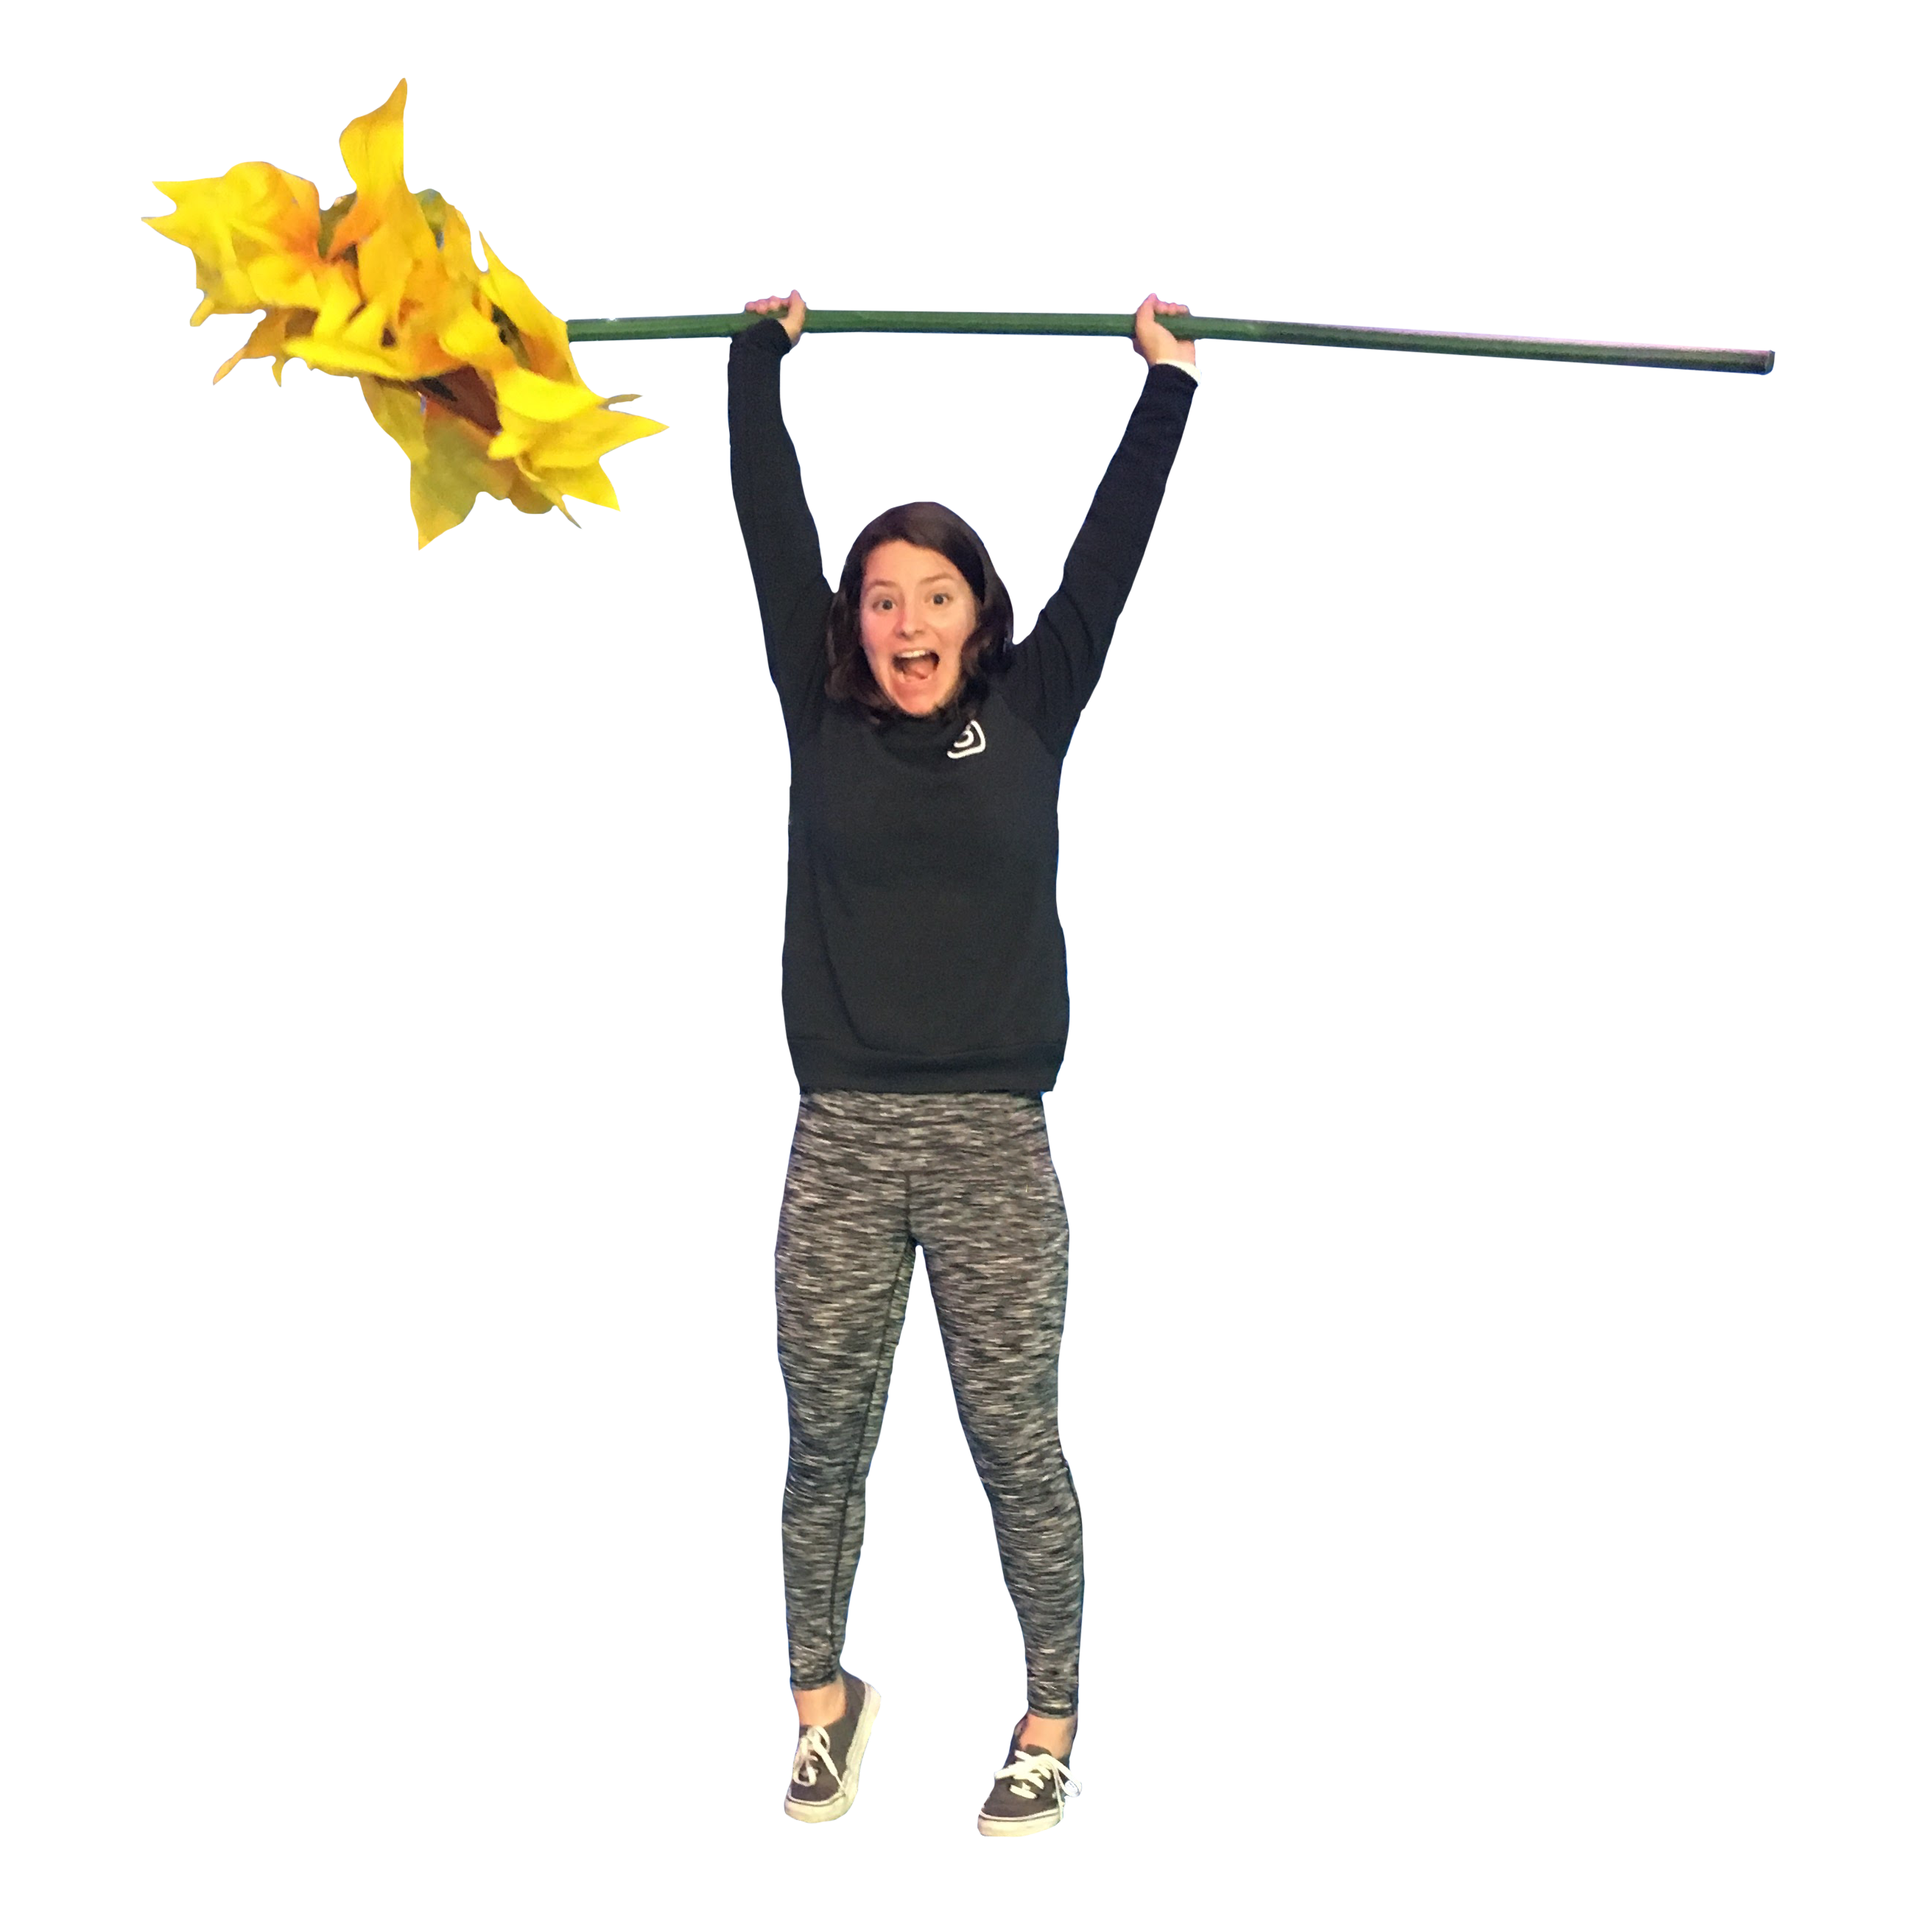
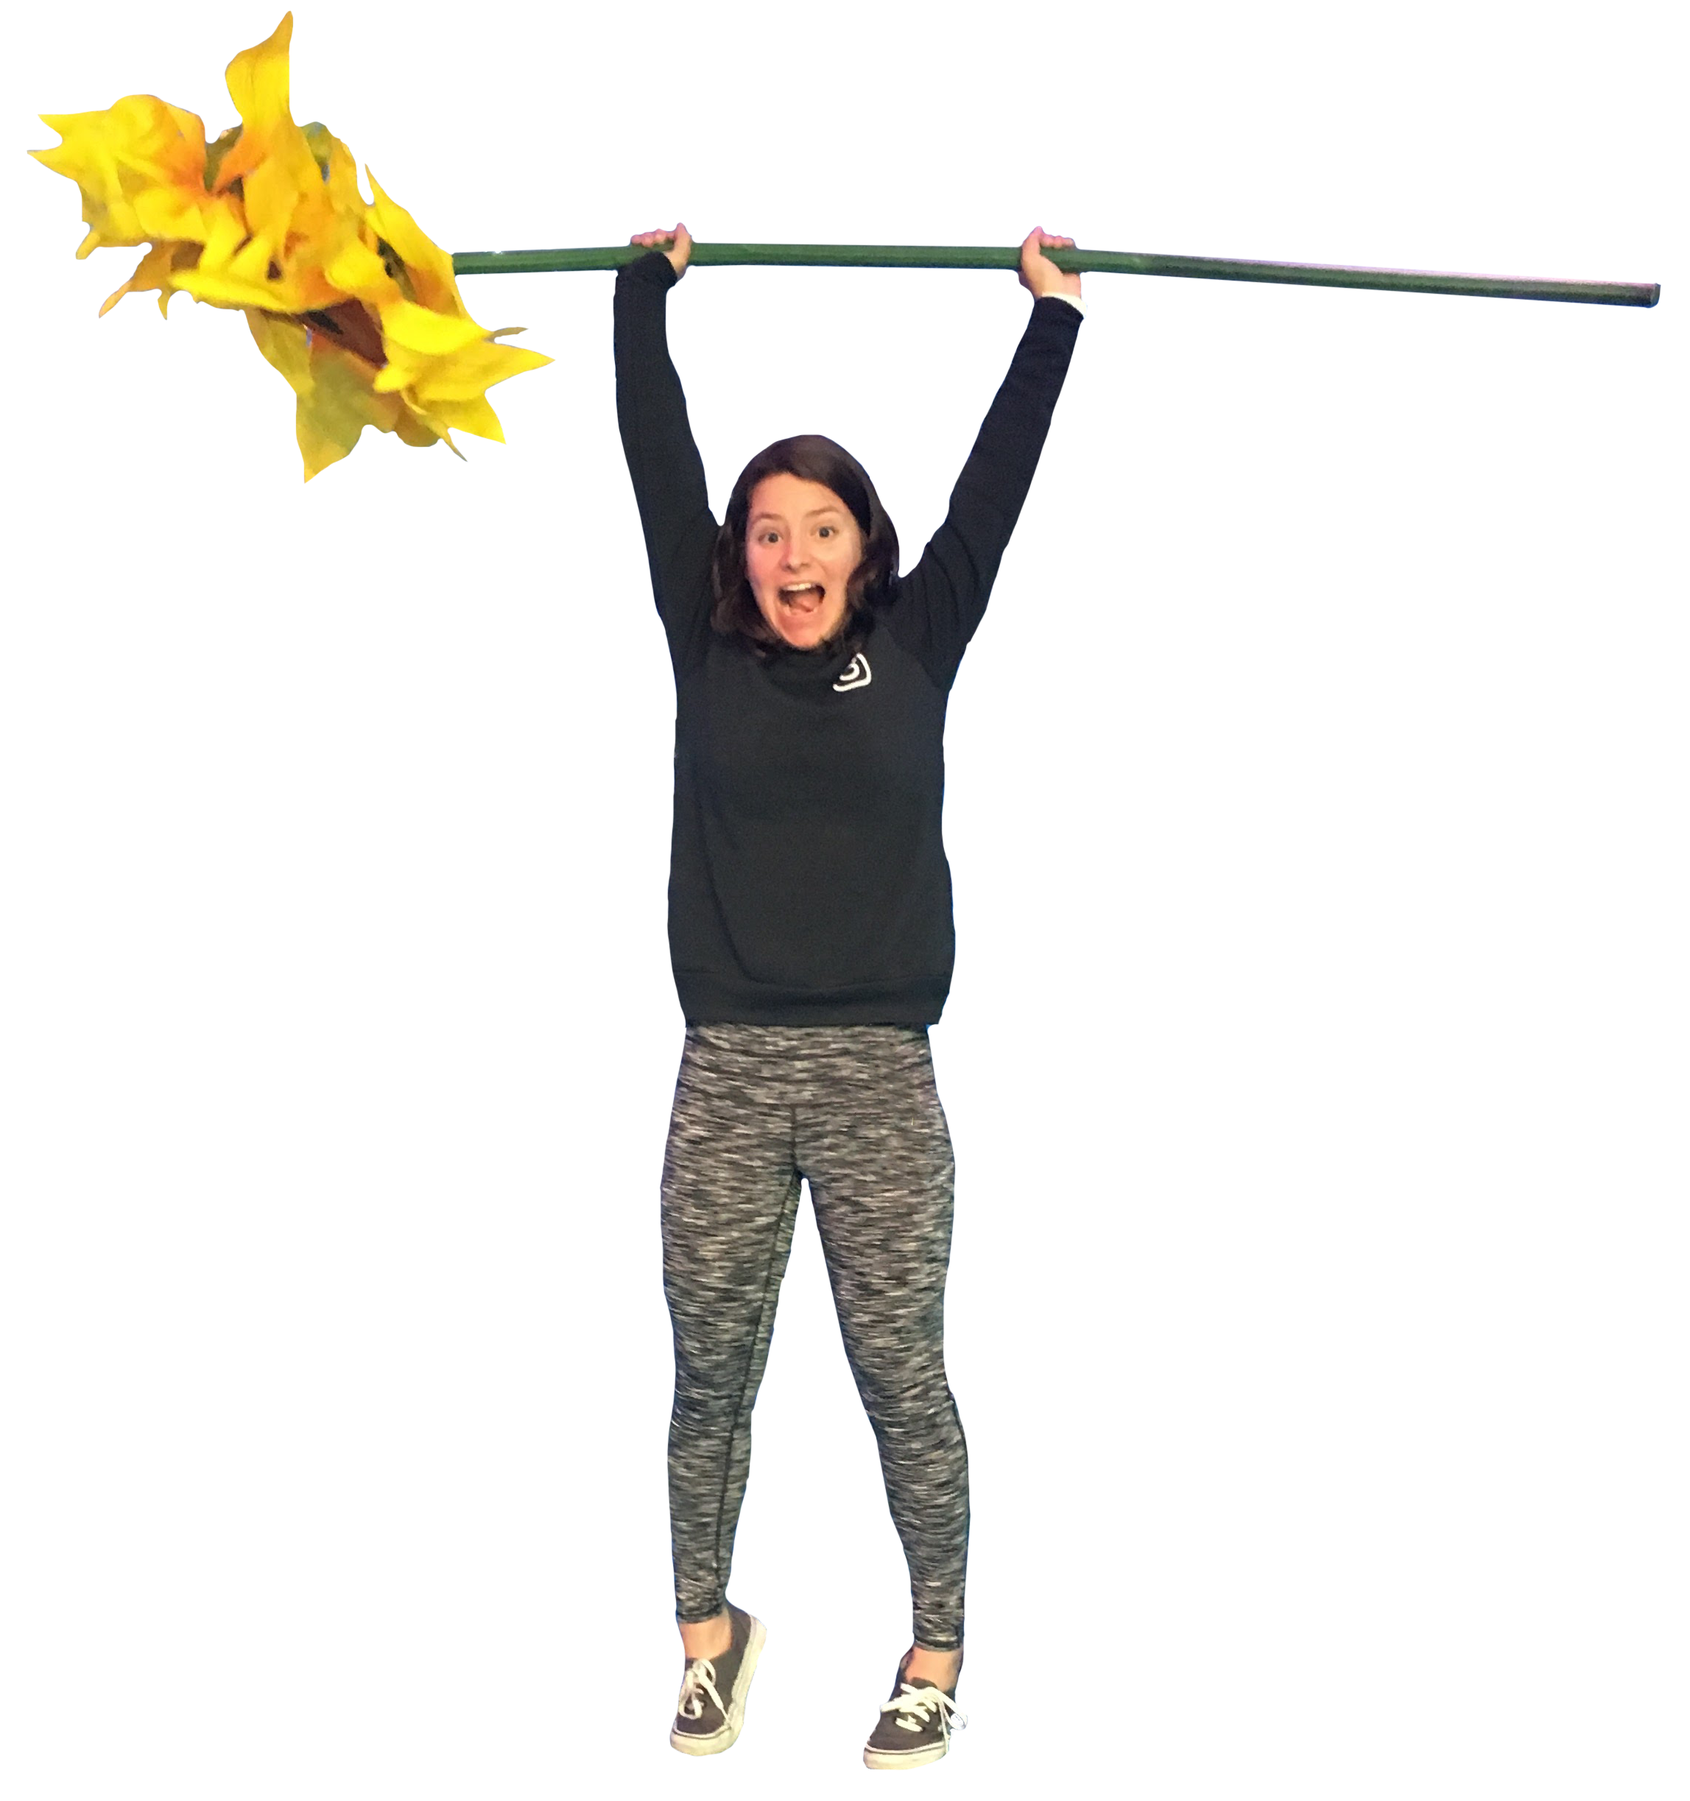
Add stats and float left

Changed region(s): [[0.0, 0.0, 0.99, 0.9943], [0.5569, 0.4661, 0.5878, 0.5593], [0.5569, 0.2175, 0.6187, 0.2796]]

diff --git a/html/funstuff.html b/html/funstuff.html
@@ -16,19 +16,20 @@
 			<h1 id="fun-stuff-head">I try to not take life too seriously...</h1>
 			<a id="home-btn" href="../index.html"><button type="button" class="btn btn-default">Back Home</button></a>
 		</div>
-		<div class="image-figure">
-			<img id="flower" src="../img/me-with-flower.png" alt="me with a giant flower">
-		</div>
-		<p>Some quick fun facts:</p>
+	    <p style="float: left;"><img id="flower" src="../img/me-with-flower.png" alt="me with a giant flower">
+	   	<div>
+	    <p id="stats">Some Stats:</p>
 		<ul>
 			<li>Height: 5' 0"</li>
 			<li>Likes: bouldering, cool socks, cats, learning, and laughing</li>
 			<li>Dislikes: misogyny, inefficiency, bad hair days, and blister packaging </li>
 		</ul>
-		<br/>
-		<p>Some hobbies:</p>
+		<p>Some Accomplishments:</p>
 		<ul>
 			<li><a href="https://www.instagram.com/olgadrone9000/">Film and edit drone videos</a></li>
-			<li>Run (a marathon...!)</li>
+			<li>Ran a marathon (and only cried twice)</li>
+		</ul>
+		<br/>
+		</div>
 	</body>
 </html>

diff --git a/style.css b/style.css
@@ -37,8 +37,12 @@ body {
 }
 
 #flower {
-  height: 700px;
+  height: 650px;
   width: auto;
+}
+
+#stats {
+  margin-top: 120px;
 }
 
 .image-figure {
